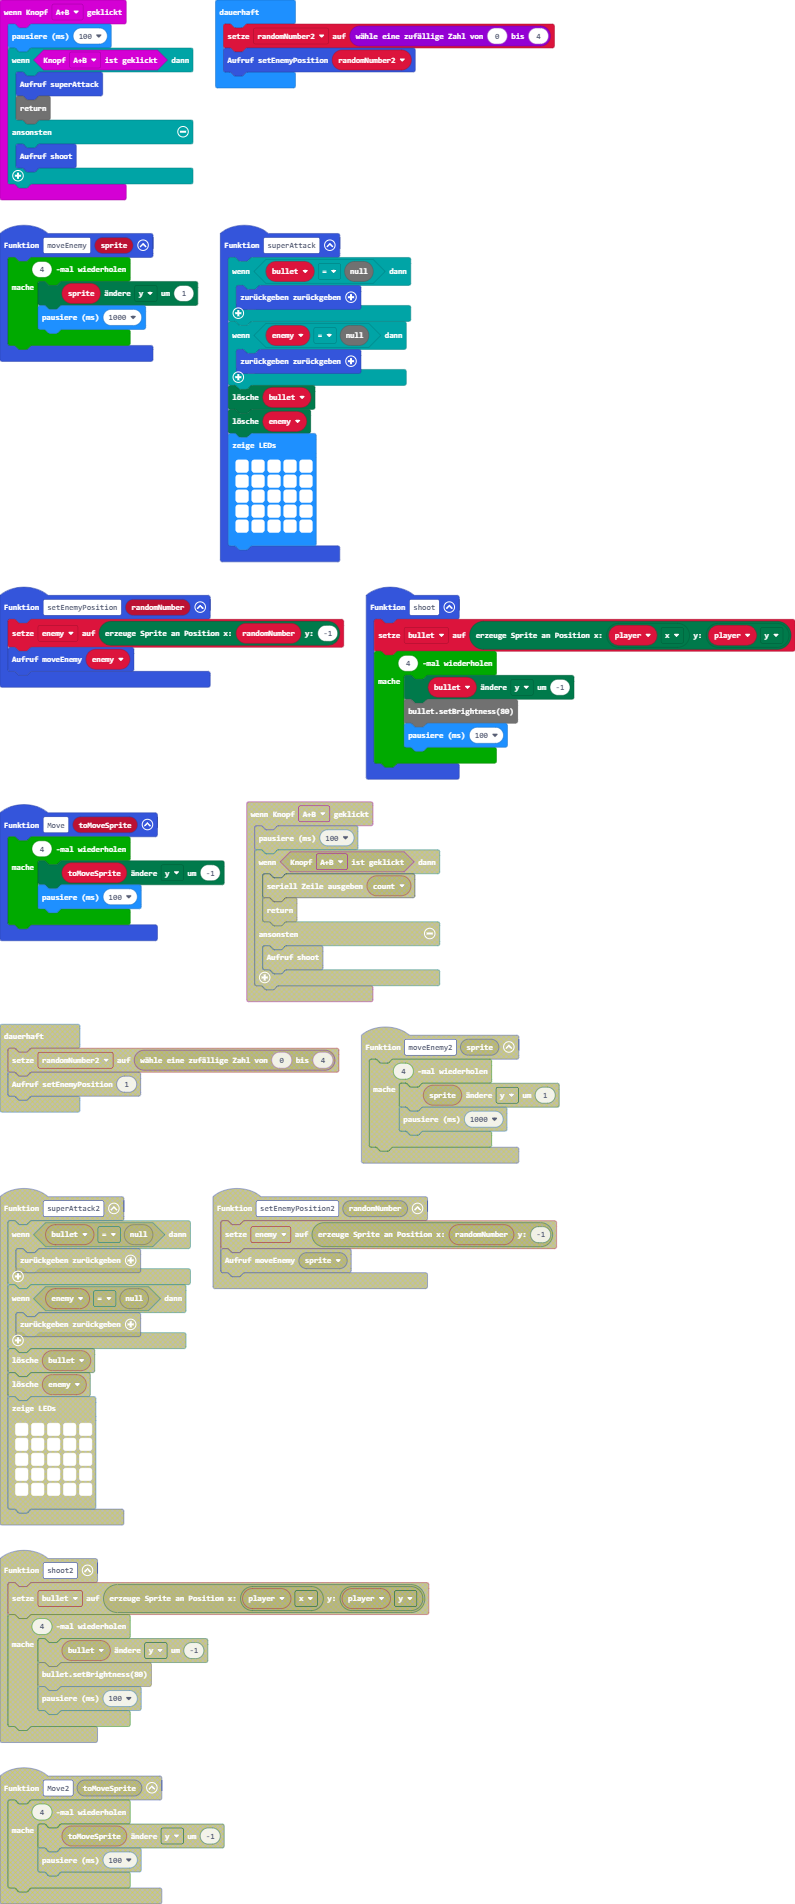
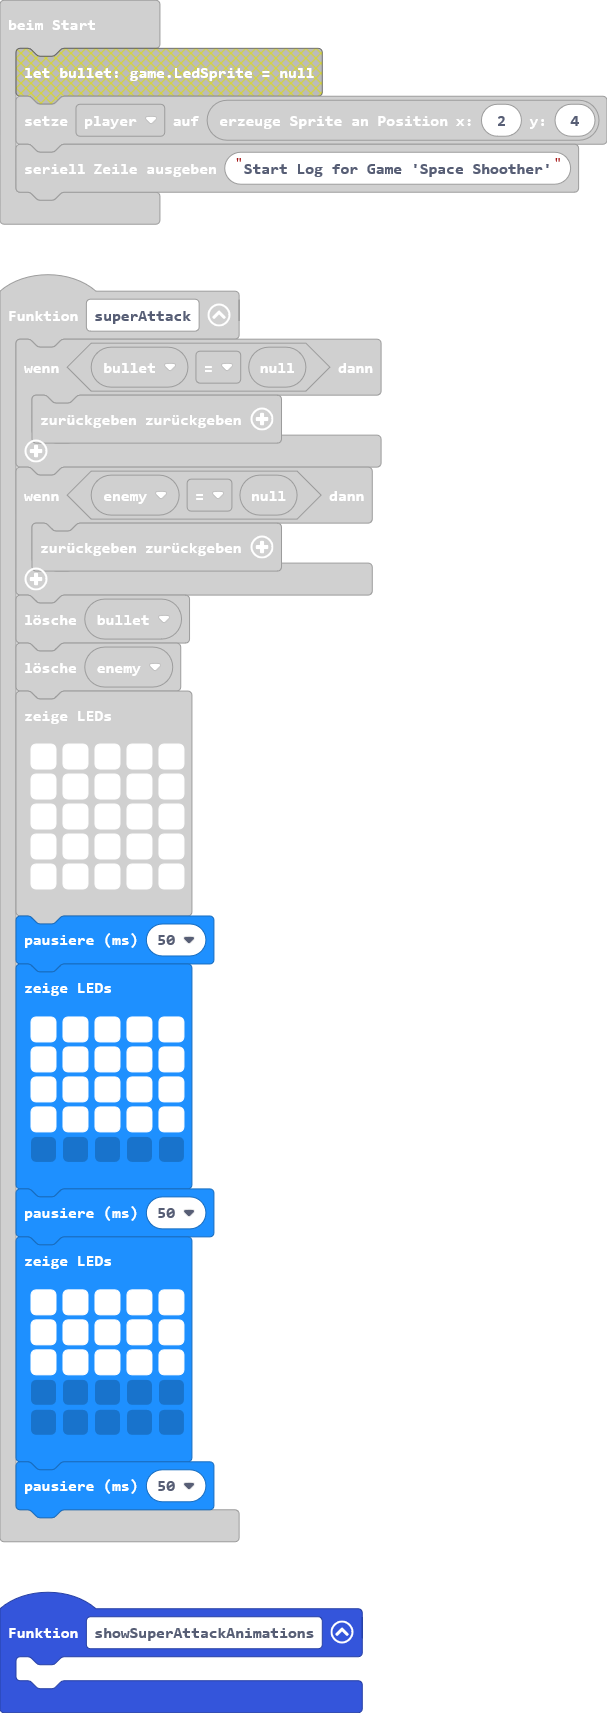
Aktualisiere main.blocks, main.ts

diff --git a/main.ts b/main.ts
@@ -1,6 +1,9 @@
 input.onButtonPressed(Button.A, function () {
     player.change(LedSpriteProperty.X, -1)
 })
+function showSuperAttackAnimations () {
+	
+}
 function moveEnemy (sprite: game.LedSprite) {
     for (let index = 0; index < 4; index++) {
         sprite.change(LedSpriteProperty.Y, 1)
@@ -31,6 +34,23 @@ function superAttack () {
         # # # # #
         # # # # #
         `)
+    basic.pause(50)
+    basic.showLeds(`
+        # # # # #
+        # # # # #
+        # # # # #
+        # # # # #
+        . . . . .
+        `)
+    basic.pause(50)
+    basic.showLeds(`
+        # # # # #
+        # # # # #
+        # # # # #
+        . . . . .
+        . . . . .
+        `)
+    basic.pause(50)
 }
 input.onButtonPressed(Button.AB, function () {
     basic.pause(100)
@@ -56,8 +76,8 @@ function setEnemyPosition (randomNumber: number) {
 }
 let randomNumber2 = 0
 let enemy: game.LedSprite = null
-let player: game.LedSprite = null
 let bullet: game.LedSprite = null
+let player: game.LedSprite = null
 player = game.createSprite(2, 4)
 serial.writeLine("Start Log for Game 'Space Shoother'")
 basic.forever(function () {
